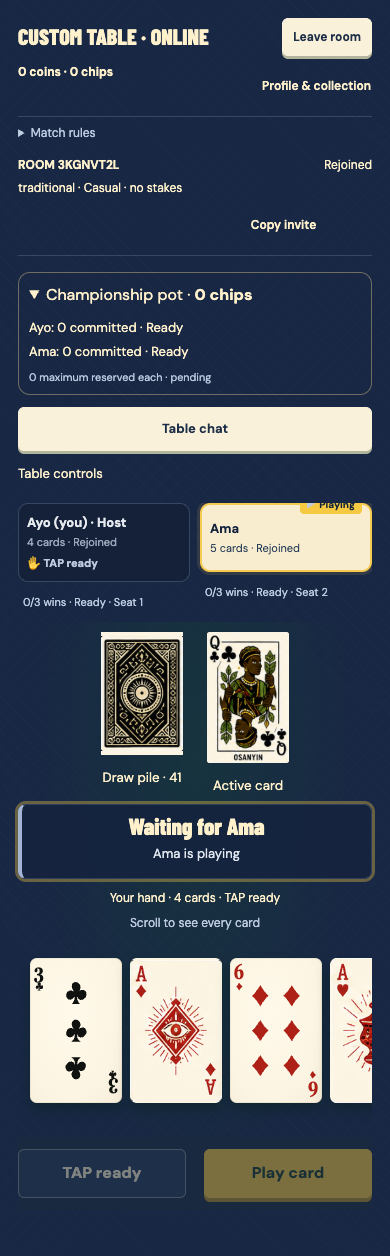
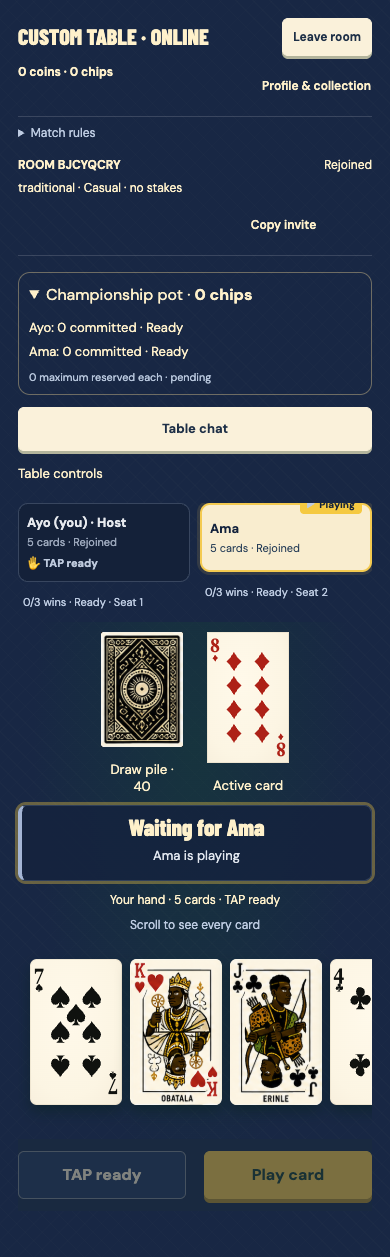
Deal automatically after explicit championship and ante commitments

diff --git a/src/App.tsx b/src/App.tsx
@@ -89,7 +89,8 @@ export default function App() {
   const run=()=>{try{const current=loadProfile();if(current.localTable?.id!==profile.localTable?.id){setNotice('This local table changed in another tab. Reload to restore it.');return;}showLocal(operation(current));}catch(error){setNotice((error as Error).message);}};
   if(navigator.locks)await navigator.locks.request('pitapat-local-wallet',run);else run();
  }
- function confirmBuyIn(zero=false){void localCommit(p=>commitQuickPlay(p,zero));}
+ useEffect(()=>{if(screen==='table'&&profile.localTable?.status==='ready-to-deal')void localCommit(startLocalHand);},[screen,profile.localTable?.id,profile.localTable?.status]);
+ function confirmBuyIn(zero=false){void localCommit(p=>startLocalHand(commitQuickPlay(p,zero)));}
  function acceptGame(state:{game:GameState;match:Championship}){
   const current=loadProfile();if(!current.localTable||current.localTable.id!==state.match.id||current.localTable.status!=='committed')return;
   // Stale tabs/actions cannot roll a recovered hand back or overwrite settlement.
@@ -153,10 +154,10 @@ export default function App() {
   {screen==='destination'&&<main className="content-page play-entry"><button className="text-button" onClick={()=>setScreen('play')}><ArrowLeft size={19}/>Back</button><div className="page-heading"><span className="kicker">{gameType==='quick'?'Quick Play · 25 chips each':'Custom Table'}</span><h1>WHERE WILL YOU PLAY?</h1><p>Local chips are simulated. Online games use a separate server wallet.</p></div><div className="play-options"><button className="play-option" aria-label="Local" onClick={()=>gameType==='quick'?startGame('quick'):setScreen('setup')}><Users size={32}/><h2>LOCAL</h2><p>You and simulated bots on this device. New local profiles include 100 practice chips.</p><span className="play-option-action">{gameType==='quick'?'Review buy-in':'Set up table'} <ArrowRight/></span></button><button className="play-option" aria-label="Online" onClick={()=>setScreen('online')}><Globe2 size={32}/><h2>ONLINE</h2><p>Private rooms for 2–4 humans. Host or join friends on the running multiplayer service.</p><span className="play-option-action">Host or join <ArrowRight/></span></button></div></main>}
   {screen==='online'&&<Online gameType={gameType} onGameType={setGameType} onBack={()=>setScreen('destination')}/>}
   {screen==='setup'&&<main className="content-page setup-page"><button className="text-button" onClick={()=>setScreen('play')}><ArrowLeft size={19}/>Back</button><div className="page-heading"><span className="kicker">Local play</span><h1>CUSTOM TABLE</h1><p>First to three hand wins. Actions enabled: 2 draws two, 8 skips, 10 reverses. Choose your mode and players.</p></div><div className="setup-layout"><section className="setup-panel"><h2>Ruleset</h2><div className="mode-options">{(['traditional','chains'] as Mode[]).map(m=><button key={m} className={`mode-option ${mode===m?'chosen':''}`} onClick={()=>setMode(m)} aria-pressed={mode===m}><span className="mode-icon">{m==='traditional'?<Spade size={27}/>:<Layers3 size={27}/>}</span><span><strong>{m==='traditional'?'Traditional':'Chains'}</strong><p>{m==='traditional'?'Play a match, then optionally discard one card.':'Play an ordered chain. Each card matches the last.'}</p></span><span className="radio-dot">{mode===m&&<Check size={17}/>}</span></button>)}</div><div className="player-picker"><div><strong>Players</strong><p>You + {seats-1} {seats===2?'bot':'bots'}</p></div><div className="stepper"><button aria-label="Fewer players" disabled={seats===2} onClick={()=>setSeats(s=>s-1)}><Minus size={20}/></button><span aria-live="polite">{seats}</span><button aria-label="More players" disabled={seats===4} onClick={()=>setSeats(s=>s+1)}><Plus size={20}/></button></div></div><label className="ante-setting">Equal ante per hand<input aria-label="Equal ante per hand" type="number" min="0" max="10000" step="1" value={ante} onChange={e=>setAnte(Number(e.target.value))}/></label><p>Maximum exposure: {ante*(2*seats+1)} local chips per player. Unused reservation is refunded.</p><button className="button primary wide" disabled={!Number.isSafeInteger(ante)||ante<0||ante>10000} onClick={()=>startGame()}>Review buy-in <ArrowRight size={22}/></button><p className="setup-note"><ShieldCheck size={17}/>{ante} local chips each · Confirm before each hand</p></section><aside className="setup-aside"><div className="preview-back"><CardBack variant={profile.equipped}/></div><h2>Declare TAP in advance</h2><p>TAP becomes eligible on your next turn and stays for the hand. Going out too soon draws one penalty card.</p><button className="text-button" onClick={()=>setModal('rules')}>Read game rules <ArrowRight size={18}/></button></aside></div></main>}
-  {screen==='table'&&!view&&profile.localTable&&<main className="game-page buy-in-table" aria-label="Undealt card table"><div className="game-topline"><span className="table-brand">PIT-A-PAT</span><span>{gameType==='quick'?'Quick Play':'Custom Table'} · First to three</span></div><aside className="economy-sidebar"><div className="local-wallet-summary">{profile.chips} local chips · {profile.coins} coins</div><LocalStakes profile={profile} notice={notice} onConfirm={confirmBuyIn} onStart={()=>void localCommit(startLocalHand)} onAnte={()=>void localCommit(commitLocalAnte)}/><button className="text-button" onClick={()=>requestLeave()}>Leave table</button></aside><div className="undealt-table"><div className="undealt-players">{profile.localTable.players.map(p=><span key={p.id}>{p.name}{p.bot?' · Bot':''}</span>)}</div><div className="undealt-back"><CardBack variant={profile.equipped}/></div><p>{profile.localTable.status==='ready-to-deal'?'Everyone has committed. Start when you are ready.':'Cards remain undealt until all commitments are confirmed.'}</p><span>Local simulation · New profiles start with 100 practice chips</span></div><div className="mobile-stake-container"><LocalStakes profile={profile} notice={notice} onConfirm={confirmBuyIn} onStart={()=>void localCommit(startLocalHand)} onAnte={()=>void localCommit(commitLocalAnte)}/><button className="text-button" onClick={()=>requestLeave()}>Leave table</button></div></main>}
+  {screen==='table'&&!view&&profile.localTable&&<main className="game-page buy-in-table" aria-label="Undealt card table"><div className="game-topline"><span className="table-brand">PIT-A-PAT</span><span>{gameType==='quick'?'Quick Play':'Custom Table'} · First to three</span></div><aside className="economy-sidebar"><div className="local-wallet-summary">{profile.chips} local chips · {profile.coins} coins</div><LocalStakes profile={profile} notice={notice} onConfirm={confirmBuyIn} onAnte={()=>void localCommit(p=>startLocalHand(commitLocalAnte(p)))}/><button className="text-button" onClick={()=>requestLeave()}>Leave table</button></aside><div className="undealt-table"><div className="undealt-players">{profile.localTable.players.map(p=><span key={p.id}>{p.name}{p.bot?' · Bot':''}</span>)}</div><div className="undealt-back"><CardBack variant={profile.equipped}/></div><p>{profile.localTable.status==='ready-to-deal'?'Everyone has committed. Dealing…':'Cards remain undealt until all commitments are confirmed.'}</p><span>Local simulation · New profiles start with 100 practice chips</span></div><div className="mobile-stake-container"><LocalStakes profile={profile} notice={notice} onConfirm={confirmBuyIn} onAnte={()=>void localCommit(p=>startLocalHand(commitLocalAnte(p)))}/><button className="text-button" onClick={()=>requestLeave()}>Leave table</button></div></main>}
   {screen==='table'&&view&&<main className="game-page" aria-label={`${mode==='traditional'?'Traditional':'Chains'} card table`}><ActionFlights effect={actionEffect}/>
    <div className="game-topline"><span className="table-brand">PIT-A-PAT<span className="brand-diamond"/></span><span className="table-mode">Hand {championship?.handNumber} · First to three <small>{mode==='traditional'?'Traditional':'Chains'}</small></span><div className="table-tools"><button className="mobile-economy-trigger" onClick={()=>setModal('economy')} aria-label="Player & table"><span className="summary-avatar">{profile.name[0]}</span><span>Lv {level.level}</span><Coins size={17}/><strong>{profile.coins}</strong></button><button className="icon-button" aria-label="Table talk" onClick={()=>setShowLog(!showLog)} aria-expanded={showLog}><MoreHorizontal size={23}/></button><button className="icon-button" aria-label="How to play" onClick={()=>setModal('rules')}><CircleHelp size={21}/></button></div></div>
-   <aside className="economy-sidebar" aria-label="Player and economy"><LocalStakes profile={profile} notice={notice} onConfirm={confirmBuyIn} onStart={()=>void localCommit(startLocalHand)} onAnte={()=>void localCommit(commitLocalAnte)}/><PlayerPanel profile={profile} championship={championship} direction={view?.direction} onRules={()=>setModal('rules')} onSettings={()=>setModal('settings')} onLeave={()=>requestLeave()} onNew={()=>requestLeave('play')}/></aside>
+   <aside className="economy-sidebar" aria-label="Player and economy"><LocalStakes profile={profile} notice={notice} onConfirm={confirmBuyIn} onAnte={()=>void localCommit(p=>startLocalHand(commitLocalAnte(p)))}/><PlayerPanel profile={profile} championship={championship} direction={view?.direction} onRules={()=>setModal('rules')} onSettings={()=>setModal('settings')} onLeave={()=>requestLeave()} onNew={()=>requestLeave('play')}/></aside>
    <div className="mobile-match-status">{championship&&<ChampionshipStandings match={championship} viewer="you" direction={view.direction}/>}</div>
    <div className={`game-table seats-${view.players.length} ${view.hand.length>8?'has-large-hand':''}`}>
     <div className="opponents">{view.players.slice(1).map((p,i)=><div className={`opponent opponent-${i} ${view.current===i+1?'is-current':''}`} key={p.id}><PlayerNameplate playerId={p.id} effect={actionEffect} name={p.name} count={p.count} active={view.current===i+1} tapped={p.tapDeclaredTurn!==null} tapReady={p.tapDeclaredTurn!==null&&p.tapDeclaredTurn<view.turns}/><div className="mini-hand">{Array.from({length:Math.min(p.count,5)},(_,j)=><i key={j}/>)}</div></div>)}</div>
@@ -169,7 +170,7 @@ export default function App() {
     </div>
    </div>{showLog&&<aside className="table-log"><div><strong>Table talk</strong><button className="icon-button" onClick={()=>setShowLog(false)} aria-label="Close table talk"><X size={17}/></button></div><div ref={logRef} className="log-entries">{view.events.map((event,i)=><p key={`${view.revision}-${i}`} className={`event-${event.type}`}><small>Turn {event.turn}</small> {event.text}</p>)}</div></aside>}
   </main>}
-  {screen==='table'&&view&&['awaiting-ante','ready-to-deal'].includes(profile.localTable?.status??'')&&<div className="mobile-stake-container"><LocalStakes profile={profile} notice={notice} onConfirm={confirmBuyIn} onStart={()=>void localCommit(startLocalHand)} onAnte={()=>void localCommit(commitLocalAnte)}/></div>}
+  {screen==='table'&&view&&['awaiting-ante','ready-to-deal'].includes(profile.localTable?.status??'')&&<div className="mobile-stake-container"><LocalStakes profile={profile} notice={notice} onConfirm={confirmBuyIn} onAnte={()=>void localCommit(p=>startLocalHand(commitLocalAnte(p)))}/></div>}
   {screen==='table'&&game?.phase==='finished'&&championship&&!modal&&!['awaiting-ante','ready-to-deal'].includes(profile.localTable?.status??'')&&<TableOverlay title={championship.status==='finished'?'Championship complete':`Hand ${championship.handNumber} complete`}><span className="result-icon"><Trophy size={28}/></span><h3>{championship.status==='finished'?`${game.players.find(p=>p.id===championship.winner)?.name} is champion`:game.winner?`${game.players.find(p=>p.id===game.winner)?.name} won the hand`:'Stalemate · No victory awarded'}</h3><ChampionshipStandings match={championship} viewer="you" direction={game.direction}/>{championship.status==='finished'?<><p>{localPot} local chips · Pot paid to {game.players.find(p=>p.id===championship.winner)?.name}.</p><p>Rewards: +{receipt?.xp??0} XP · +{receipt?.coins??0} coins · +{(receipt?.chips??0)+(championship.winner==='you'?localPot:0)} chips.</p><div className="outcome-actions"><button className="button primary" onClick={()=>startGame()}>Rematch</button><button className="button secondary" onClick={()=>setScreen('home')}>Leave Table</button></div></>:<><p>{profile.localTable?.gameType==='custom'?'Continue to review the next hand’s ante.':'Your championship buy-in remains committed. No further buy-in is needed.'}</p><button className="button primary wide" onClick={nextHand}>Continue</button></>}</TableOverlay>}
   {screen==='profile'&&<main className="content-page profile-page"><button className="text-button" onClick={()=>setScreen('home')}><ArrowLeft size={19}/>Back</button><div className="page-heading"><h1>PROFILE</h1><p>Level, balances and completed championships. Earlier hand history is preserved.</p></div><div className="profile-grid"><section className="profile-card"><div className="profile-identity"><span className="large-avatar">{profile.name[0]}</span><div><h2>{profile.name}</h2><p>Level {level.level}</p></div></div><div className="xp-heading"><span>{level.progress} / 100 XP</span><span>Level {level.level+1}</span></div><div className="progress-track"><i style={{width:`${level.progress}%`}}/></div><p className="muted">{level.remaining} XP to next level</p><div className="profile-stats"><div><strong>{profile.games}</strong><span>Completed games</span></div><div><strong>{profile.wins}</strong><span>Wins</span></div><div><strong>{profile.games?Math.round(profile.wins/profile.games*100):0}%</strong><span>Win rate</span></div></div></section><section className="wallet-card"><h2>Balances</h2><div className="balance"><span><Coins/>Coins<small>Unlock card backs</small></span><strong>{profile.coins}</strong></div><div className="balance"><span><Layers3/>Chips<small>Earned from completed matches</small></span><strong>{profile.chips}</strong></div><p className="wallet-note">Virtual currency. No cash value or paid purchases.</p><button className="text-button" onClick={()=>setScreen('collection')}>View collection <ArrowRight size={19}/></button></section></div><section className="history-section"><h2>Recent results</h2>{profile.history.length?<div className="history-list">{profile.history.map(r=><div className="history-row" key={r.id}><span className={`history-icon ${r.won?'win':''}`}>{r.won?<Crown size={23}/>:<Spade size={23}/>}</span><div><strong>{r.won?'Won':r.draw?'Draw':'Lost'}</strong><span>{r.kind==='match'?`Championship · ${r.handWins}/${r.hands} hands`:'Earlier hand'} · {r.mode==='traditional'?'Traditional':'Chains'} · {new Date(r.date).toLocaleDateString('en-GB',{day:'numeric',month:'short'})}</span></div><span className="history-reward">+{r.xp} XP <small>+{r.coins} coins</small></span></div>)}</div>:<div className="empty-state"><Layers3 size={30}/><h3>No completed matches</h3><p>Play a local game to earn rewards.</p><button className="button primary" onClick={()=>setScreen('play')}>Play <ArrowRight size={20}/></button></div>}</section></main>}
   {screen==='collection'&&<main className="content-page collection-page"><button className="text-button" onClick={()=>setScreen('home')}><ArrowLeft size={16}/>Back</button><div className="page-heading"><h1>COLLECTION</h1><p>Equip a card back or unlock a colourway with earned coins.</p></div><div className="collection-heading"><h2>Card backs <span>{profile.owned.length} / {COSMETICS.length}</span></h2><span><Coins size={17}/>{profile.coins} coins</span></div><div className="cosmetic-grid">{COSMETICS.map(c=>{const owned=profile.owned.includes(c.id),equipped=profile.equipped===c.id;return <article className={`cosmetic-card ${equipped?'equipped':''}`} key={c.id}><div className={`cosmetic-preview ${c.id}`}><CardBack variant={c.id}/>{equipped&&<span className="equipped-tag"><Check size={13}/>Equipped</span>}</div><div className="cosmetic-info"><div><h3>{c.name}</h3><p>{c.description}</p></div><button className={`button ${equipped?'secondary':'primary'}`} disabled={equipped||(!owned&&profile.coins<c.price)} onClick={()=>{setProfile(p=>equipCosmetic(p,c.id));}}>{equipped?<><Check size={15}/>Equipped</>:owned?'Equip':<><Coins size={15}/>{c.price} coins</>}</button>{!owned&&profile.coins<c.price&&<small className="unlock-note">Earn {c.price-profile.coins} more coins at the table</small>}</div></article>;})}</div><details className="deck-gallery"><summary>Included Orisha court cards <ChevronRight size={20}/></summary><div className="court-gallery">{SUITS.flatMap(suit=>(['J','Q','K'] as const).map(rank=><figure key={`${rank}-${suit}`}><div><CardFace card={{id:`${rank}-${suit}`,rank,suit}}/></div><figcaption><strong>{COURTS[suit][rank]}</strong><span>{rank} of {suit}</span></figcaption></figure>))}</div></details><div className="artwork-note"><Flower2 size={24}/><div><strong>The Orisha deck</strong><p>The twelve Black Orisha-inspired court characters, four aces and original back come from the supplied deck sheet. The full 52-card deck is included in every game.</p></div></div></main>}

diff --git a/src/online/Online.tsx b/src/online/Online.tsx
@@ -45,12 +45,12 @@ export function Online({onBack,gameType='custom',onGameType}:{onBack:()=>void;ga
  const roomType=room?.gameType??(room?.staking==='per-hand'?'custom':gameType);
  const ready=room?.players.length===room?.seats&&room?.players.every(p=>p.ready&&p.connected),finished=!!room&&['finished','cancelled','expired'].includes(room.status);
  useEffect(()=>{
-  if(roomType!=='quick'||room?.status!=='between-hands'||room.hostId!==room.meId||!ready||!connected||busy||!game)return;
+  if(room?.gameType||roomType!=='quick'||room?.status!=='between-hands'||room.hostId!==room.meId||!ready||!connected||busy||!game)return;
   const key=`${room.roundId}:${game.id}`;if(autoNext.current===key)return;
   if(send({op:'next-hand',requestId:crypto.randomUUID(),roundId:room.roundId,handId:game.id}))autoNext.current=key;
  },[room?.revision,roomType,ready,connected,busy,game?.id]);
- const lobbyStakes=room&&room.status==='lobby'?<section className="online-box online-staking-sheet"><h2>CONFIRM YOUR BUY-IN</h2><strong>{room.stake} chips per player · {room.stake*room.seats} chips {roomType==='quick'?'championship':'first hand'} pot</strong><div className="buy-in-commitments">{room.players.map(q=><p key={q.id}><span>{q.name}</span><strong>{q.accepted?'Confirmed':'Awaiting confirmation'}</strong></p>)}</div><label>Choose seat<select aria-label="Choose seat" value={me?.seat??0} disabled={!connected||busy} onChange={e=>command('choose-seat',{seat:Number(e.target.value)})}>{Array.from({length:room.seats},(_,seat)=><option key={seat} value={seat} disabled={room.players.some(p=>p.id!==room.meId&&p.seat===seat)}>Seat {seat+1}</option>)}</select></label>{room.stake>0&&<><p>{room.staking==='per-hand'?`Reserve up to ${room.maximumExposure} chips each; explicitly commit ${room.stake} chips before each decisive hand. The pot accumulates until a champion wins three hands. Unused reservation is refunded. Stalemates carry the same ante into the redeal.`:`One ${room.stake}-chip entry each covers this entire championship. The champion receives the full ${room.stake*room.seats}-chip pot.`} No rake. After play starts, cancellation requires unanimous consent; disconnected players’ reservations remain protected.</p><label className="online-accept"><input type="checkbox" checked={accept} onChange={e=>setAccept(e.target.checked)}/>I confirm {room.stake} chips {room.staking==='per-hand'?`for this hand and a maximum ${room.maximumExposure}-chip reservation`:'for the whole championship'}.</label></>}<div className="online-actions"><button className="button secondary" disabled={!connected||busy||(!me?.ready&&room.stake>0&&(!accept||(p?.chips??0)<(room.maximumExposure??room.stake)))} onClick={()=>command('ready',{ready:!me?.ready,acceptStake:accept})}>{me?.ready?'Not ready':'Ready'}</button>{room.hostId===room.meId&&<button className="button primary" disabled={!connected||busy||!ready} onClick={()=>command('start')}>Start hand</button>}</div>{room.stake>0&&<><p>{(p?.chips??0)<(room.maximumExposure??room.stake)?'Insufficient chips for the maximum exposure. Choose zero-stake play.':'Prefer no stakes?'}</p><button className="button secondary" disabled={!connected||busy} onClick={()=>command('zero-stake')}>Choose zero-stake · 0 chips each</button></>}<small>Chips only · Coins are for cosmetics · No cash value, purchases, withdrawals or redeemable prizes</small></section>:null;
- const nextAnteStakes=room&&game&&room.status==='between-hands'&&anteHand===game.id?<section className="online-box online-staking-hand online-staking-sheet"><h2>Next hand ante</h2><strong>{room.stake} chips each · {(room.pot??0)+(game.winner?room.stake*room.seats:0)} total pot after commitments</strong><p>Commit from your existing maximum-exposure reservation. A stalemate carries its current ante.</p>{room.players.map(q=><p key={q.id}>{q.name}: {q.ready?'Confirmed':'Awaiting confirmation'}</p>)}{room.stake>0&&<label className="online-accept"><input type="checkbox" checked={accept} onChange={e=>setAccept(e.target.checked)}/>{game.winner?`I commit the next ${room.stake}-chip ante.`:'I confirm this redeal with the existing ante.'}</label>}<div className="online-actions"><button className="button secondary" disabled={!connected||busy||!!me?.ready||(room.stake>0&&!accept)} onClick={()=>command('ready',{ready:true,acceptStake:accept})}>{me?.ready?'Committed':'Confirm ante'}</button>{room.hostId===room.meId&&<button className="button primary" disabled={!connected||busy||!ready} onClick={()=>command('next-hand')}>Start hand</button>}</div></section>:null;
+ const lobbyStakes=room&&room.status==='lobby'?<section className="online-box online-staking-sheet"><h2>CONFIRM YOUR BUY-IN</h2><strong>{room.stake} chips per player · {room.stake*room.seats} chips {roomType==='quick'?'championship':'first hand'} pot</strong><div className="buy-in-commitments">{room.players.map(q=><p key={q.id}><span>{q.name}</span><strong>{q.accepted?'Confirmed':'Awaiting confirmation'}</strong></p>)}</div><label>Choose seat<select aria-label="Choose seat" value={me?.seat??0} disabled={!connected||busy} onChange={e=>command('choose-seat',{seat:Number(e.target.value)})}>{Array.from({length:room.seats},(_,seat)=><option key={seat} value={seat} disabled={room.players.some(p=>p.id!==room.meId&&p.seat===seat)}>Seat {seat+1}</option>)}</select></label>{room.stake>0&&<><p>{room.staking==='per-hand'?`Reserve up to ${room.maximumExposure} chips each; explicitly commit ${room.stake} chips before each decisive hand. The pot accumulates until a champion wins three hands. Unused reservation is refunded. Stalemates carry the same ante into the redeal.`:`One ${room.stake}-chip entry each covers this entire championship. The champion receives the full ${room.stake*room.seats}-chip pot.`} No rake. After play starts, cancellation requires unanimous consent; disconnected players’ reservations remain protected.</p><label className="online-accept"><input type="checkbox" checked={accept} onChange={e=>setAccept(e.target.checked)}/>I confirm {room.stake} chips {room.staking==='per-hand'?`for this hand and a maximum ${room.maximumExposure}-chip reservation`:'for the whole championship'}.</label></>}<div className="online-actions"><button className="button secondary" disabled={!connected||busy||(!me?.ready&&room.stake>0&&(!accept||(p?.chips??0)<(room.maximumExposure??room.stake)))} onClick={()=>command('ready',{ready:!me?.ready,acceptStake:accept})}>{me?.ready?'Not ready':room.stake?`Stake ${room.stake} chips`:'Confirm zero-stake'}</button>{!room.gameType&&room.hostId===room.meId&&<button className="button primary" disabled={!connected||busy||!ready} onClick={()=>command('start')}>Start hand</button>}</div>{room.stake>0&&<><p>{(p?.chips??0)<(room.maximumExposure??room.stake)?'Insufficient chips for the maximum exposure. Choose zero-stake play.':'Prefer no stakes?'}</p><button className="button secondary" disabled={!connected||busy} onClick={()=>command('zero-stake')}>Choose zero-stake · 0 chips each</button></>}<small>Chips only · Coins are for cosmetics · No cash value, purchases, withdrawals or redeemable prizes</small></section>:null;
+ const nextAnteStakes=room&&game&&room.status==='between-hands'&&anteHand===game.id?<section className="online-box online-staking-hand online-staking-sheet"><h2>Next hand ante</h2><strong>{room.stake} chips each · {(room.pot??0)+(game.winner?room.stake*room.seats:0)} total pot after commitments</strong><p>Commit from your existing maximum-exposure reservation. A stalemate carries its current ante.</p>{room.players.map(q=><p key={q.id}>{q.name}: {q.ready?'Confirmed':'Awaiting confirmation'}</p>)}{room.stake>0&&<label className="online-accept"><input type="checkbox" checked={accept} onChange={e=>setAccept(e.target.checked)}/>{game.winner?`I commit the next ${room.stake}-chip ante.`:'I confirm this redeal with the existing ante.'}</label>}<div className="online-actions"><button className="button secondary" disabled={!connected||busy||!!me?.ready||(room.stake>0&&!accept)} onClick={()=>command('ready',{ready:true,acceptStake:accept})}>{me?.ready?'Committed':room.stake&&game.winner?`Stake ${room.stake} chips`:'Confirm redeal'}</button>{!room.gameType&&room.hostId===room.meId&&<button className="button primary" disabled={!connected||busy||!ready} onClick={()=>command('next-hand')}>Start hand</button>}</div></section>:null;
  return <main className={`content-page online-live ${game?'game-active':''} ${room?.status==='lobby'?'is-lobby':''}`}><ActionFlights effect={actionEffect}/><div className="online-heading"><div><span className="kicker">Private rooms · 2–4 humans</span><h1>{roomType==='quick'?'QUICK PLAY':'CUSTOM TABLE'} · ONLINE</h1></div><button className="button secondary" onClick={()=>{if(room){if(confirm(room.stake&&room.championship&&!finished?'Leave this funded table? Your seat and entries stay reserved. Refund requires every participant’s agreement.':'Leave this room? An incomplete casual match will be cancelled.'))command('leave');}else onBack();}}>{room?'Leave room':'Back to play'}</button></div>
  <div className="online-wallet"><span>{p?.name??'Connecting…'} · Level {levelInfo(p?.xp??0).level}</span><strong>{p?.coins??0} coins · {p?.chips??0} chips {account?.reserved?`· ${account.reserved} reserved`:''}</strong><button className="text-button" onClick={()=>{setWallet(!wallet);void refresh();}}>Profile & collection</button></div>
  <details className="online-rules"><summary>Match rules</summary><p>First to three hand wins. The next dealer and starting player rotate each hand. Stalemates award no victory and redeal after readiness, keeping championship entries reserved.</p><p>Match the active card by rank or suit. Traditional: play one match, then optionally discard any card or end your turn. Chains: select an ordered sequence, each matching the previous card. When blocked, draw one; drawing ends your turn.</p><p>Declare TAP on an earlier turn. It stays for the hand and becomes eligible on your next turn. Emptying without eligible advance TAP draws one penalty card and ends your turn. Empty your hand with eligible TAP to win the hand.</p><p>Final-card actions: 2 draws two and skips the next player (no stacking); 8 skips; 10 reverses. Earlier cards in a chain or an opening match followed by a discard do not activate. End a Traditional turn after the opening action to activate it. A starting Active Card never activates. With two players a final 10 skips the opponent and returns play to you after the turn completes. A valid hand win ends immediately; a failed TAP takes its one-card penalty before resolving the final action once.</p></details>

diff --git a/src/components/LocalStakes.tsx b/src/components/LocalStakes.tsx
@@ -1,8 +1,8 @@
 import type {Profile} from '../progression/profile';
-export function LocalStakes({profile,notice,onConfirm,onStart,onAnte}:{profile:Profile;notice:string;onConfirm:(zero?:boolean)=>void;onStart:()=>void;onAnte:()=>void}){
+export function LocalStakes({profile,notice,onConfirm,onAnte}:{profile:Profile;notice:string;onConfirm:(zero?:boolean)=>void;onAnte:()=>void}){
  const t=profile.localTable;if(!t)return null;
  const initial=t.status==='awaiting-buy-in',ante=t.status==='awaiting-ante',ready=t.status==='ready-to-deal',custom=t.gameType==='custom';
  if(!initial&&!ante&&!ready)return null;
  const exposure=t.entry*(custom?2*t.players.length+1:1),nextAnte=ante&&t.state?.game.winner===null?0:t.entry,pot=initial?t.entry*t.players.length:ante?t.pot+nextAnte*t.players.length:t.pot;
- return <section className="local-stake-sheet" aria-label={ante?'Next hand ante':'Championship buy-in'}><span className="kicker">{custom?'Custom Table':'Quick Play'} · Local simulation</span><h2>{ready?'ALL PLAYERS COMMITTED':ante?'NEXT HAND ANTE':custom?'CONFIRM YOUR ANTE':'CHAMPIONSHIP BUY-IN'}</h2><strong>{initial||ante?t.entry:null}{!ready?' chips per player · ':''}{pot} chips total pot</strong><p>{custom?`Equal antes before each hand. Maximum reservation: ${exposure} chips each. Unused exposure returns at settlement; stalemates carry the same ante.`:'One 25-chip buy-in covers the entire first-to-three championship. No further staking between hands.'}</p><ul>{t.players.map(p=><li key={p.id}><span>{p.name}{p.bot?' · Bot':''}</span><strong>{t.entry} chips · {ready?'Confirmed':p.bot?'Auto-commits':'Awaiting confirmation'}</strong></li>)}</ul><p>Available: {profile.chips} local chips. Coins are for cosmetics.</p>{initial&&profile.chips<exposure&&<p role="status">Insufficient local chips. Choose zero-stake play.</p>}{initial&&<><button className="button primary wide" disabled={profile.chips<exposure} onClick={()=>onConfirm(false)}>Confirm {t.entry}-chip {custom?'ante':'buy-in'}</button><button className="button secondary wide" onClick={()=>onConfirm(true)}>Play zero-stake · 0 chips each</button></>}{ante&&<button className="button primary wide" onClick={onAnte}>{nextAnte?`Confirm ${t.entry}-chip ante`:'Confirm redeal · No new ante'}</button>}{ready&&<><p role="status">You confirmed. Every simulated bot has committed. Cards are still undealt.</p><button className="button primary wide" onClick={onStart}>Start hand</button></>}{notice&&<p role="alert">{notice}</p>}<small>Local wallets only. No cash value, purchases, withdrawals or redeemable prizes.</small></section>;
+ return <section className="local-stake-sheet" aria-label={ante?'Next hand ante':'Championship buy-in'}><span className="kicker">{custom?'Custom Table':'Quick Play'} · Local simulation</span><h2>{ready?'ALL PLAYERS COMMITTED':ante?'NEXT HAND ANTE':custom?'CONFIRM YOUR ANTE':'CHAMPIONSHIP BUY-IN'}</h2><strong>{initial||ante?t.entry:null}{!ready?' chips per player · ':''}{pot} chips total pot</strong><p>{custom?`Equal antes before each hand. Maximum reservation: ${exposure} chips each. Unused exposure returns at settlement; stalemates carry the same ante.`:'One 25-chip buy-in covers the entire first-to-three championship. No further staking between hands.'}</p><ul>{t.players.map(p=><li key={p.id}><span>{p.name}{p.bot?' · Bot':''}</span><strong>{t.entry} chips · {ready?'Confirmed':p.bot?'Auto-commits':'Awaiting confirmation'}</strong></li>)}</ul><p>Available: {profile.chips} local chips. Coins are for cosmetics.</p>{initial&&profile.chips<exposure&&<p role="status">Insufficient local chips. Choose zero-stake play.</p>}{initial&&<><button className="button primary wide" disabled={profile.chips<exposure} onClick={()=>onConfirm(false)}>Stake {t.entry} chips</button><button className="button secondary wide" onClick={()=>onConfirm(true)}>Play zero-stake · 0 chips each</button></>}{ante&&<button className="button primary wide" onClick={onAnte}>{nextAnte?`Stake ${t.entry} chips`:'Confirm redeal · No new ante'}</button>}{ready&&<><p role="status">All players committed. Dealing…</p></>}{notice&&<p role="alert">{notice}</p>}<small>Local wallets only. No cash value, purchases, withdrawals or redeemable prizes.</small></section>;
 }

diff --git a/server/rooms/GameRoom.ts b/server/rooms/GameRoom.ts
@@ -37,6 +37,16 @@ export class GameRoom extends DurableObject<Env>{
   if(['playing','between-hands'].includes(s.status)&&missing){s.resumeStatus=s.status as 'playing'|'between-hands';s.status='paused';s.notice=`Waiting for ${missing.name} to reconnect. The hand and reserved chips are preserved.`;this.event(s,'pause',s.notice);}
   else if(s.status==='paused'&&!missing){s.status=s.resumeStatus??'playing';s.resumeStatus=null;s.notice='Your game has been restored.';if(s.stake&&s.settlement.status==='requires-reconciliation')s.settlement.status='reserved';this.event(s,'resume','All required players are back. Play can continue.');}
  }
+ // Called inside the room queue. Initial reservation intent is persisted before RPCs.
+ private async advanceCommitted(s:RoomData){
+  if(!s.gameType||s.players.length!==s.seats||s.players.some(p=>!p.ready||!this.connected(p)||(s.status==='lobby'||s.staking==='per-hand')&&!p.accepted))return;
+  if(s.status==='lobby'){await this.ctx.storage.setAlarm(Date.now()+2000);s.status='starting';s.settlement.status='pending';s.notice='All players committed. Dealing…';}
+  else if(s.status==='between-hands'&&s.game&&s.championship){
+   const next=nextChampionshipHand({match:s.championship,game:s.game},secureShuffle);
+   if(s.staking==='per-hand'&&s.game.winner){const hands=(s.committedHands??1)+1;if(hands>2*s.seats+1)throw Error('Maximum exposure reached.');s.committedHands=hands;}
+   s.game=next.game;s.championship=next.match;s.status='playing';s.notice=`Hand ${s.championship.handNumber}. ${s.game.players[s.game.current].name} starts.`;this.event(s,'hand',s.notice);
+  }
+ }
  private async arm(s:RoomData){
   const now=Date.now(),times:number[]=[];
   if(['starting','settling','cancelling'].includes(s.status))times.push(now+2000);
@@ -85,7 +95,7 @@ export class GameRoom extends DurableObject<Env>{
   const pair=new WebSocketPair(),connectionId=crypto.randomUUID(),returning=p.everConnected===true||p.connectionId!==''||p.presence==='left'||p.presence==='reconnecting'||p.presence==='disconnected';
   const old=this.ctx.getWebSockets().filter(ws=>(ws.deserializeAttachment() as Attachment|null)?.id===id);
   this.ctx.acceptWebSocket(pair[1]);pair[1].serializeAttachment({id,connectionId} satisfies Attachment);
-  p.everConnected=true;p.connectionId=connectionId;p.disconnectedAt=null;p.presence=returning?'rejoined':'connected';s.notice=returning?`${p.name} rejoined. Their game is restored.`:`${p.name} connected.`;this.event(s,returning?'rejoin':'presence',s.notice);this.transferHost(s);this.pause(s);this.commit(s);
+  p.everConnected=true;p.connectionId=connectionId;p.disconnectedAt=null;p.presence=returning?'rejoined':'connected';s.notice=returning?`${p.name} rejoined. Their game is restored.`:`${p.name} connected.`;this.event(s,returning?'rejoin':'presence',s.notice);this.transferHost(s);this.pause(s);await this.advanceCommitted(s);this.commit(s);await this.recover(s);
   for(const ws of old){this.send(ws,{type:'replaced'});try{ws.close(4001,'Connected in another tab');}catch{}}
   await this.arm(s);this.broadcast(s);return new Response(null,{status:101,webSocket:pair[0],headers:{'Sec-WebSocket-Protocol':'pitapat.v1'}});
  });}
@@ -146,7 +156,7 @@ export class GameRoom extends DurableObject<Env>{
      this.transferHost(s,s.hostId===a.id);
     }else throw Error('Unknown room action.');
    }
-   s.idleAt=now+this.idle();s.revision++;this.ctx.storage.transactionSync(()=>{this.save(s!);this.ctx.storage.sql.exec('INSERT INTO requests VALUES(?,?)',key,JSON.stringify({fingerprint:JSON.stringify(c),revision:s!.revision} satisfies RequestRecord));});
+   await this.advanceCommitted(s);s.idleAt=now+this.idle();s.revision++;this.ctx.storage.transactionSync(()=>{this.save(s!);this.ctx.storage.sql.exec('INSERT INTO requests VALUES(?,?)',key,JSON.stringify({fingerprint:JSON.stringify(c),revision:s!.revision} satisfies RequestRecord));});
    this.broadcast(s);this.send(ws,{type:'ack',requestId,revision:s.revision});
    if(['starting','settling','cancelling'].includes(s.status)){await this.recover(s);this.broadcast(s);}
    if(leave){this.send(ws,{type:'left'});try{ws.close(1000,'Left voluntarily');}catch{}}

diff --git a/src/progression/staking.test.ts b/src/progression/staking.test.ts
@@ -41,5 +41,10 @@ describe('local tabletop commitment state machine',()=>{
   expect(settled.chips).toBe(100-used+(winner==='you'?t.pot+10:5));expect(settled.localBots?.['bot-0']).toBe(1000-used+(winner==='bot-0'?t.pot:0));expect(settleLocalTable(settled)).toBe(settled);expect(refundLocalTable(p).localTable?.status).toBe('settled');
   const rematch={...settled,localTable:prepareLocalTable(type,mode,players,ante)};expect(rematch.localTable.id).not.toBe(t.id);expect(rematch.localTable.state).toBeNull();expect(rematch.chips).toBe(settled.chips);
  });
+ it('persists consent and dealing as one retry-safe local transition',()=>{
+  const stake=(p:ReturnType<typeof draft>)=>startLocalHand(commitQuickPlay(p));
+  const dealt=stake(draft());const restored=JSON.parse(JSON.stringify(dealt));
+  const retried=stake(restored);expect(retried.chips).toBe(75);expect(retried.localTable?.state?.game.id).toBe(dealt.localTable?.state?.game.id);expect(retried.localBots?.['bot-0']).toBe(LOCAL_BOT_STARTING_CHIPS-25);
+ });
  it('never funds a server account from a local starting balance',()=>{expect(freshProfile().chips).toBe(0);});
 });

diff --git a/docs/verification/build-004d-complete/README.md b/docs/verification/build-004d-complete/README.md
@@ -1,6 +1,12 @@
 # Build 004D — completed local experience and staging preparation
 
-Local preview: **http://127.0.0.1:8788**. Verified source build: **34627c7bdbc5**, exposed by the home footer, `.app[data-build]` and `/build-info.json`.
+Local preview: **http://127.0.0.1:8788**. Verified source build: **3c7f2ef49586**, exposed by the home footer, `.app[data-build]` and `/build-info.json`.
+
+## Latest attached-brief correction
+
+The previous implementation paused at a separate Start hand button after all commitments. The latest brief explicitly requires direct dealing. Local confirmation now commits stakes and creates the hand in one persisted wallet transition. Online Quick Play and Custom Table rooms advance on the server after the last required connected player confirms; initial reservation intent and the triggering action receipt are saved before wallet RPCs. Custom antes accumulate once, including on retries; reloads recover the same contract. Older local ready-to-deal records resume automatically without another deduction. Legacy server contracts retain their existing protocol. Buttons now explicitly say Stake 25 chips / Stake 10 chips.
+
+Fresh Chrome evidence is in [direct-deal/](direct-deal/): four complete local championships (desktop/mobile Quick, desktop Custom Traditional, mobile Custom Chains), and three complete multiplayer UI championships under direct-deal/online. Online tests use isolated test earnings, never production wallets. The final normal-motion capture under direct-deal/final completed a three-hand championship on build 3c7f2ef49586 and captured all three enlarged effects, affected seats and two travelling Draw Two backs. The earlier fresh desktop/mobile runs include human hand victories. Historical screenshots below may show the superseded Start hand step.
 
 ## What inspection found
 
@@ -29,9 +35,9 @@ The workspace also had no Git repository, broader credential/database exclusions
 
 ## Retained and directly verified
 
-Quick Play uses a single 25-chip championship entry and Traditional rules; Custom Table chooses ruleset/seat count/equal antes and accumulates the pot. The sidebar is interactive during staking; mobile uses a compact sheet. No deal exists before human confirmation and bot commitments. Start hand deals only after commitments. Custom Continue leads to next-ante consent; Quick Continue requires no additional stakes. Insufficient chips have an explicit zero-stake route. Local simulated wallets/bot balances never fund online accounts.
+Quick Play uses a single 25-chip championship entry and Traditional rules; Custom Table chooses ruleset/seat count/equal antes and accumulates the pot. The sidebar is interactive during staking; mobile uses a compact sheet. No deal exists before human confirmation and bot commitments. The final explicit Stake Chips confirmation deals automatically; no separate Start hand step is required. Custom Continue leads to next-ante consent; Quick Continue requires no additional stakes. Insufficient chips have an explicit zero-stake route. Local simulated wallets/bot balances never fund online accounts.
 
-Ordinary hands show winner/standings/Continue over the existing table. Only the final championship overlay offers Rematch and Leave Table. Online continuation uses authoritative readiness and host controls; final rewards/pot wait for confirmed ledger settlement.
+Ordinary hands show winner/standings/Continue over the existing table. Only the final championship overlay offers Rematch and Leave Table. Online continuation uses authoritative player readiness; final rewards/pot wait for confirmed ledger settlement.
 
 ## Actual Chrome evidence
 
@@ -61,7 +67,7 @@ Ordinary hands show winner/standings/Continue over the existing table. Only the 
 
 ## Checks and limits
 
-- Production build and staging build pass; 74 unit/simulation tests pass.
+- Production build and staging build pass; 75 unit/simulation tests pass.
 - SQLite room, staking, wallet and browser reconnect suites pass, including chat/host transfer, private seats, lost ACKs, duplicate tabs, server restart, unanimous funded cancellation and settlement retries.
 - Staging/production isolation tested together in one local Workers runtime using the same account IDs, reservation IDs and room codes: no shared wallets, reservations or room state.
 - Staging artifact preflight and `cf deploy --prebuilt --mode staging --dry-run` pass for `pit-a-pat-online-staging`. SQLite Account/GameRoom exports and bindings target staging only; no LUDI references, production routes or namespace transfers.
